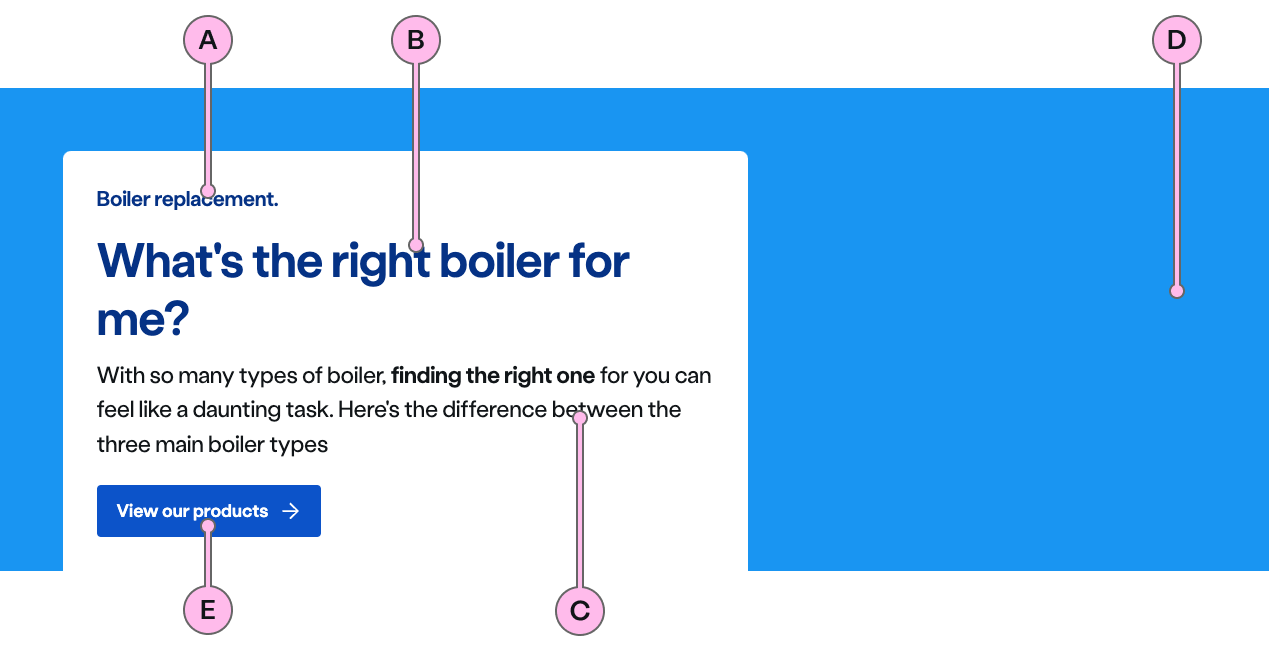
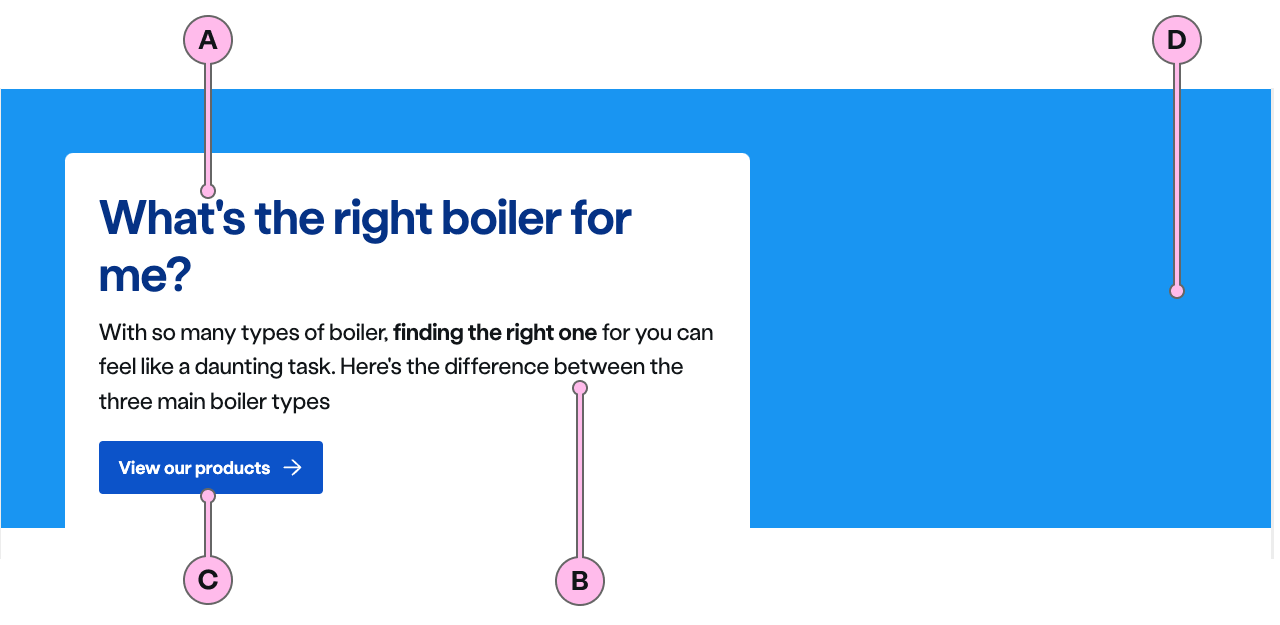
updated hillside diagram and table removed subheads

diff --git a/docs/components/ns-landmark.md b/docs/components/ns-landmark.md
@@ -21,7 +21,7 @@ Landmarks are used to set the scene for what the page is for, what offers might 
 
 | Key | Field type | Guidelines |
 | :--- | :--- | :--- |
-| A | Main Heading | The recommended length is between 4 and 12 words, not exceeding 50 characters in total. Headings contain light and bold font weight to highlight key messaging. |
+| A | Main Heading | The recommended length is between 4 and 12 words, not exceeding 50 characters in total. |
 | B | Content | A single, short paragraph works best. Can contain bold copy `<b>`, inline links `<a>` and a caveat at the end of the relevant paragraph if required `<a href="#caveat">1</a>`. |
 | C | Action | See action guidance below |
 | D | Image path | This is the image that will be used inside `ns-landmark`. Ensure the important focus area of your image remains within the safe-area. It should have an aspect ratio of 16:9, the dimensions should be 1440x810 px, the file type should be jpg, and the file size should be no more than 150kb. Please make sure you work with a designer when selecting this image as finding the right one with the correct focus area can be challenging. **Note:** The image shouldn't hold any meaning and be only used as a decoration. This is why it doesn't have an `alt=""` attribute to avoid adding unnecessary content for users using assistive technology. |
@@ -32,11 +32,10 @@ Landmarks are used to set the scene for what the page is for, what offers might 
 
 | Key | Field type | Guidelines |
 | :--- | :--- | :--- |
-| A | Sub heading | Sub headings are used to indicate the primary section or to reinforce a brand message. Short and simple words tend to work better and it is recommended to keep the length between 1 and 5 words. Include a full stop at the end of the sub-heading. **Note:** For guide pages (non-product pages produced with strong SEO focus) a Sub heading is not required. |
-| B | Main Heading | The recommended length is between 4 and 12 words, not exceeding 50 characters in total. Headings contain light and bold font weight to highlight key messaging. |
-| C | Content | A single, short paragraph works best. Can contain bold copy `<b>`, inline links `<a>` and a caveat at the end of the relevant paragraph if required `<a href="#caveat">1</a>`. |
+| A | Main Heading | The recommended length is between 4 and 12 words, not exceeding 50 characters in total. |
+| B | Content | A single, short paragraph works best. Can contain bold copy `<b>`, inline links `<a>` and a caveat at the end of the relevant paragraph if required `<a href="#caveat">1</a>`. |
+| C | Action | See action guidance below |
 | D | Decoration | Apply a colour decoration to the landmark. [The specification table](#specification) has a list of options. |
-| E | Action | See action guidance below |
 
 ### Valley Landmark
 
